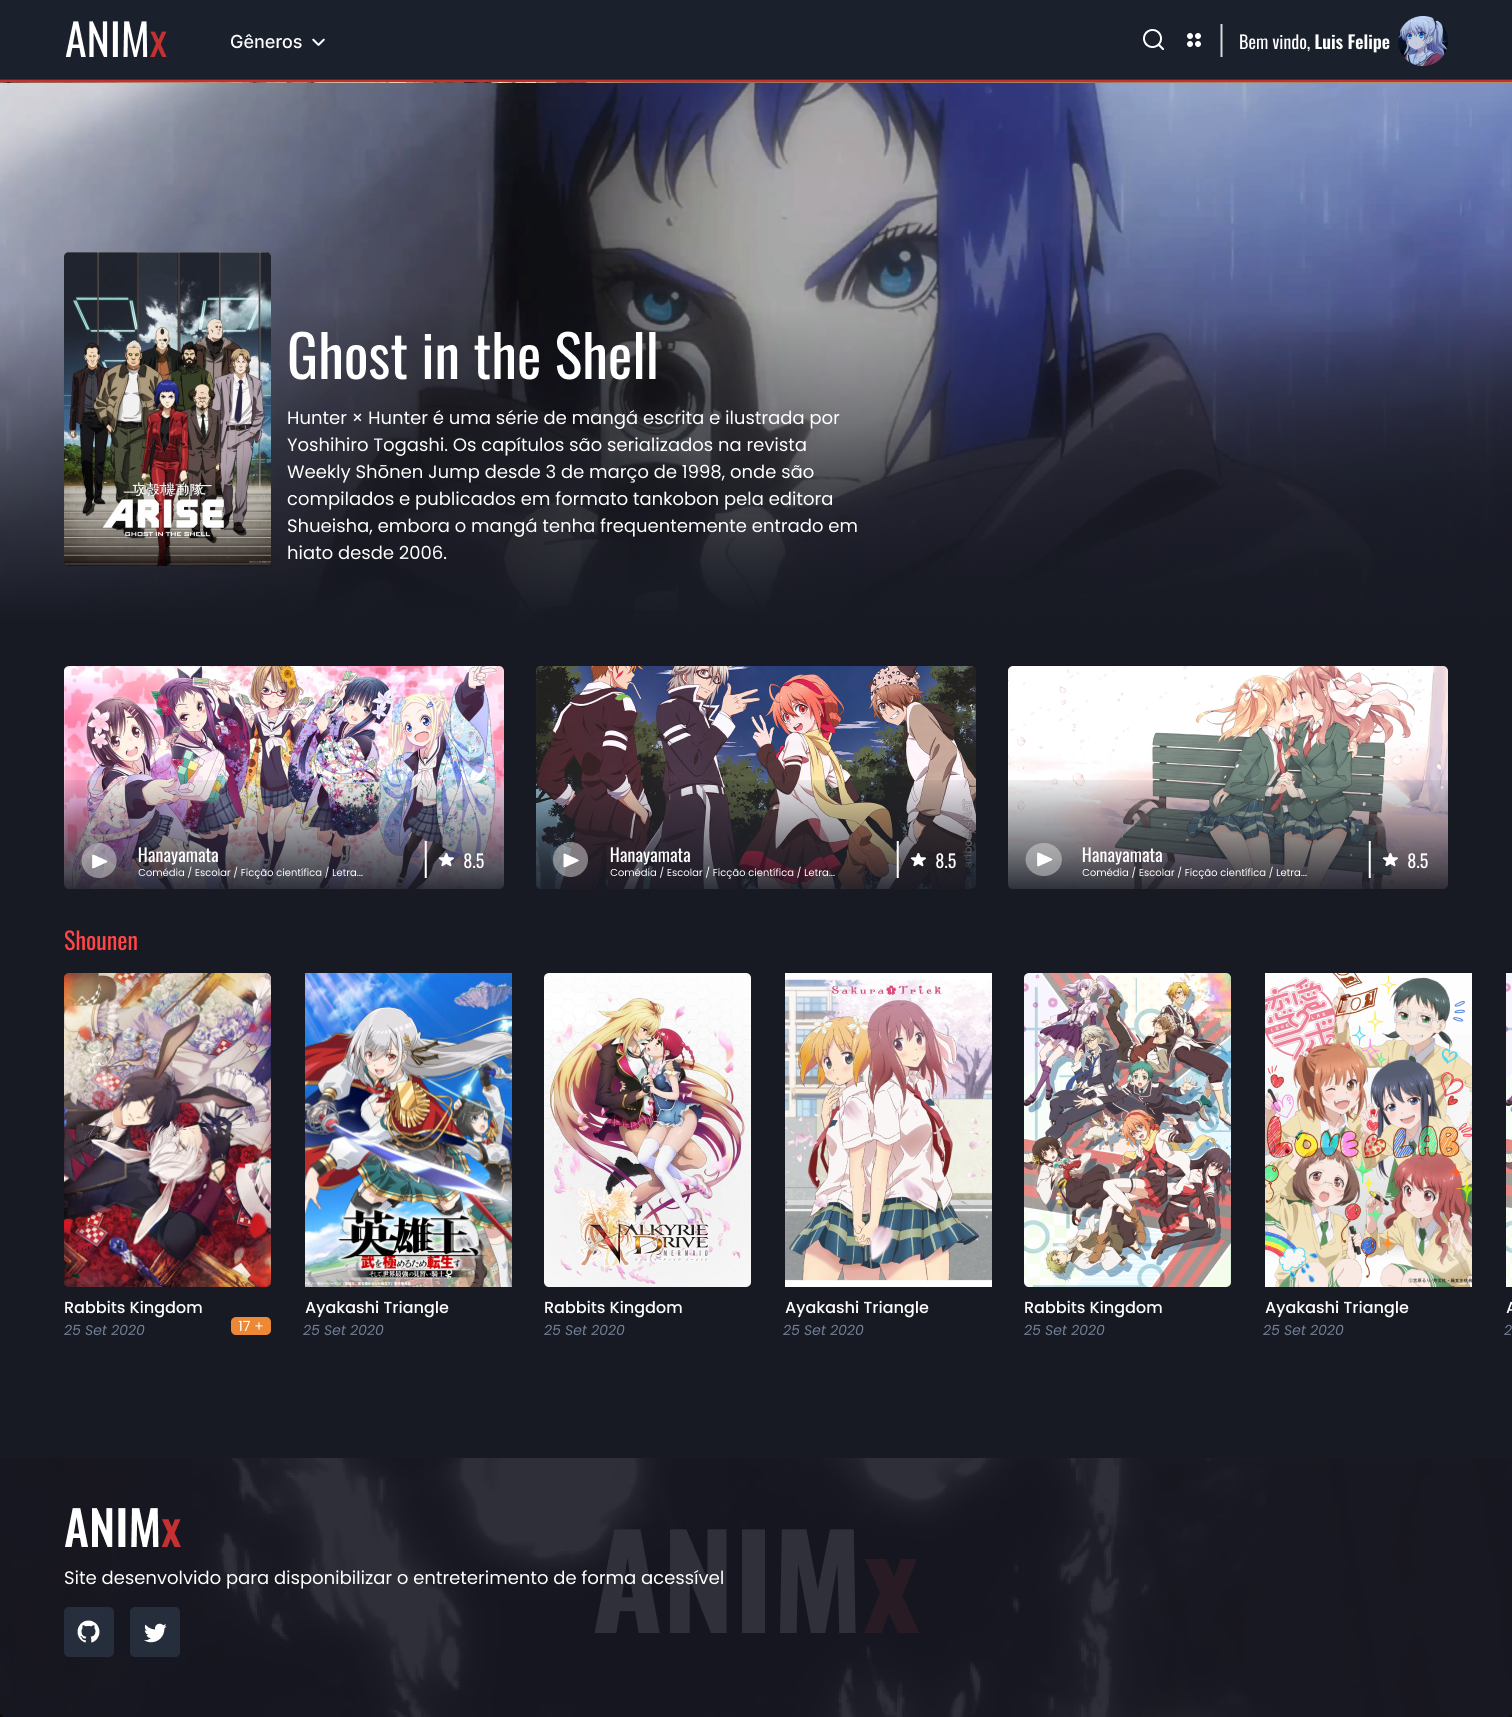
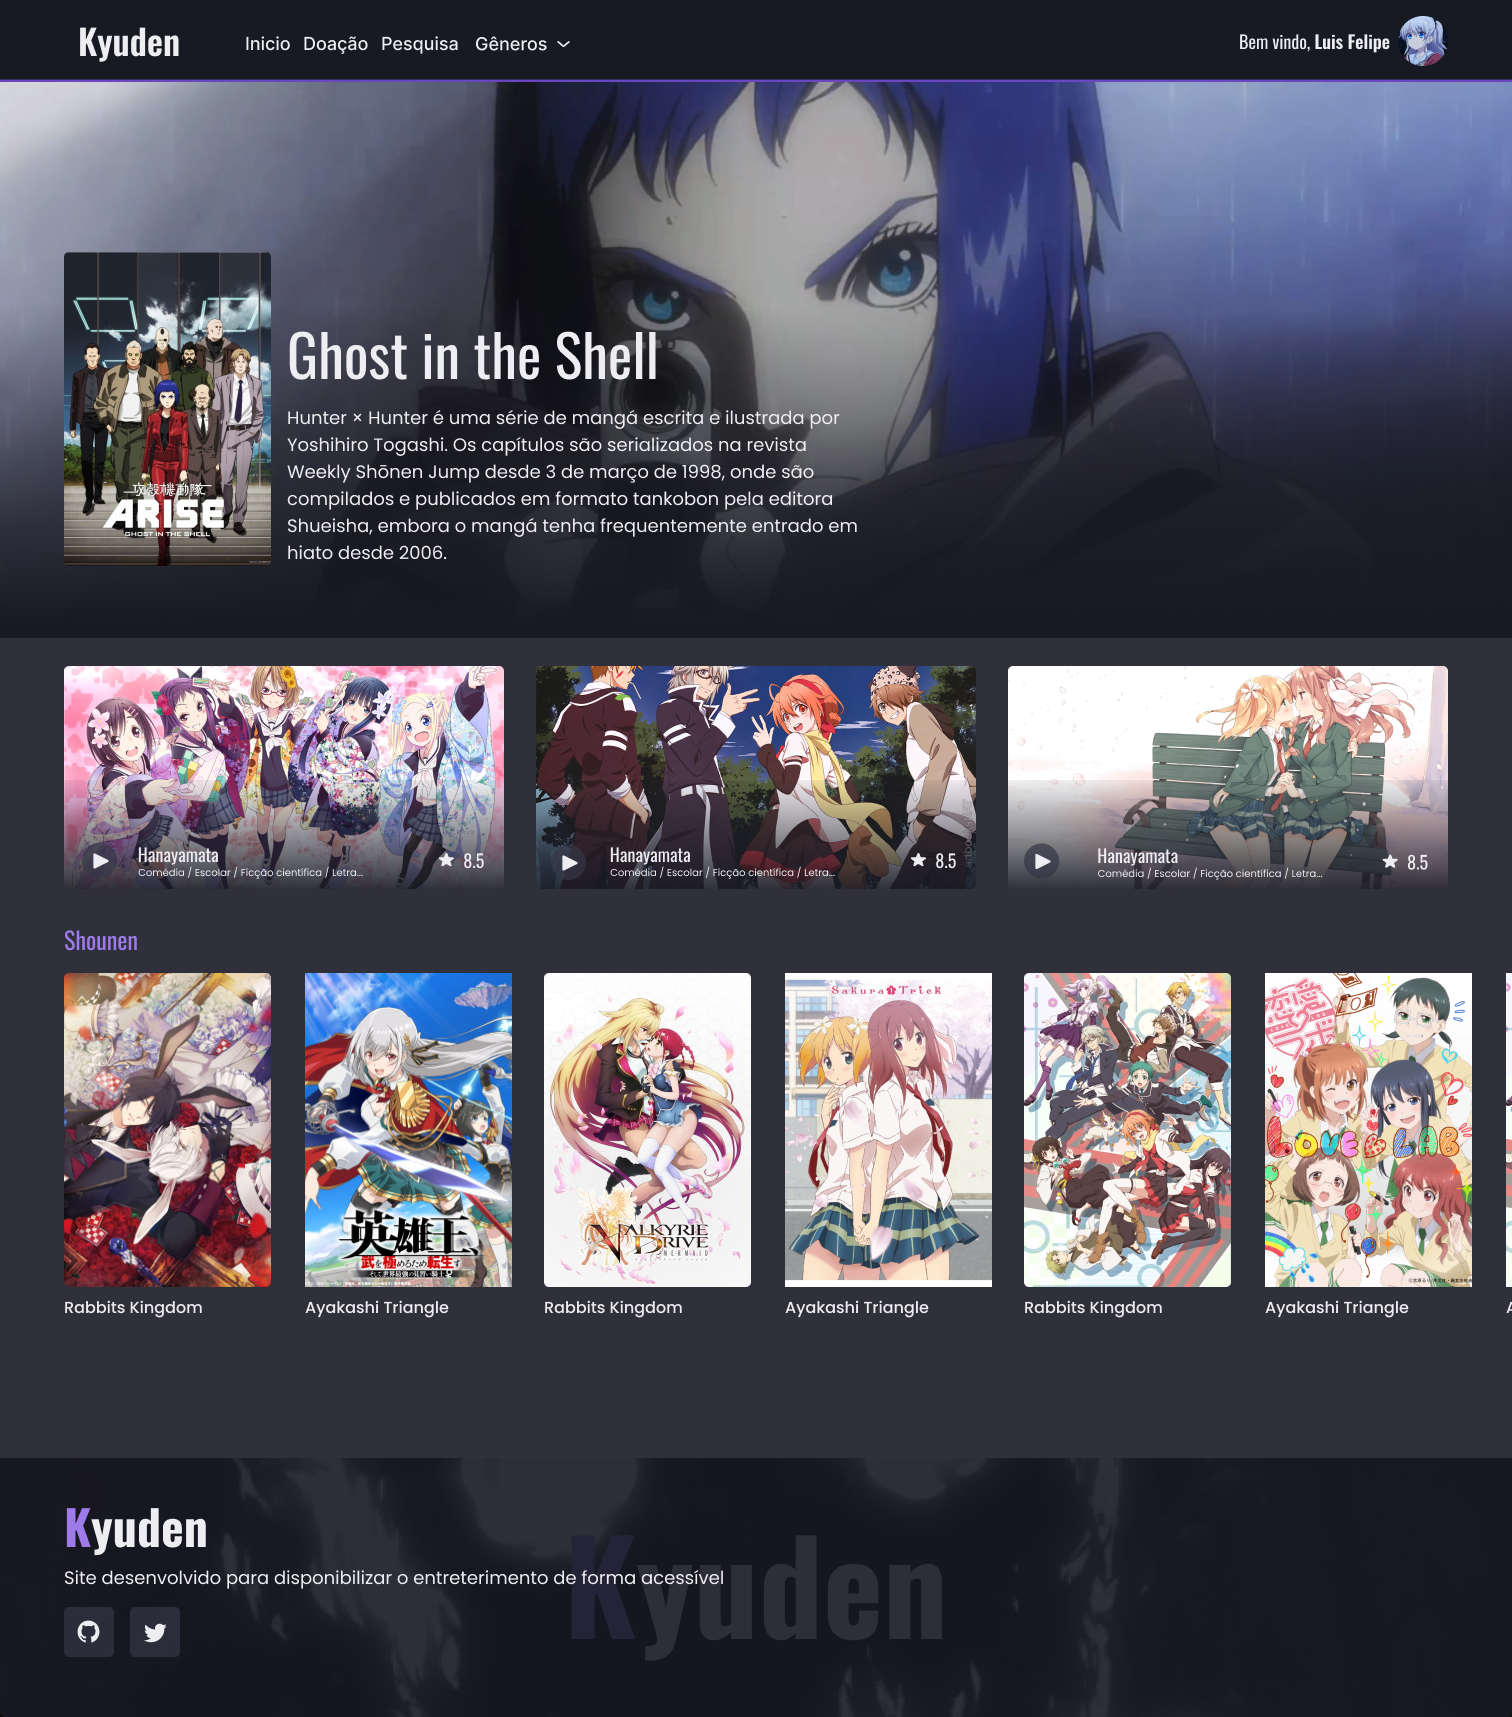
:triangular_flag_on_post: add new components

diff --git a/src/components/Hero/index.tsx b/src/components/Hero/index.tsx
@@ -3,6 +3,8 @@ import Image from "next/image"
 import Link from "next/link"
 import { FaPlay, FaPlus } from "react-icons/fa"
 import { IAnimes } from "../../@types/Anime"
+import { Button } from "../Button/Index"
+import { ButtonIcon } from "../ButtonIcon"
 import { Skeleton } from "../Skeleton"
 
 import style from './style.module.scss'
@@ -48,19 +50,21 @@ export function Hero({ anime }: IHeroProps) {
                         <h1>{anime.title}</h1>
                         <p>{anime.description}</p>
                         <div className={style.containerBtns}>
-                            <button
+                            <ButtonIcon
                                 title={`Adicionar ${anime.title} na minha lista`}
                                 aria-label={`Adicionar ${anime.title} na minha lista`}
                                 className={style.btnAddList}
                             >
                                 <FaPlus />
-                            </button>
-                            <Link href={`/anime/${anime.slug}`}>
-                                <a>
-                                    <FaPlay />
-                                    Assistir
-                                </a>
-                            </Link>
+                            </ButtonIcon>
+                            <Button asChild>
+                                <Link href={`/anime/${anime.slug}`}>
+                                    <a>
+                                        <FaPlay />
+                                        Assistir
+                                    </a>
+                                </Link>
+                            </Button>
                         </div>
                        
                     </div>

diff --git a/src/pages/episodio/[id].tsx b/src/pages/episodio/[id].tsx
@@ -45,7 +45,7 @@ export default function Episodio({ episode, remainingEpisodes, anime }: IEpisode
                         </div>
 
                         <div>
-                           
+                           <div></div>
                         </div>
 
                     </section>
@@ -60,8 +60,8 @@ export default function Episodio({ episode, remainingEpisodes, anime }: IEpisode
                                                 src={remainingEpisode.image}
                                                 width={350}
                                                 height={175}
-                                                alt={`Imagem do episódo ${remainingEpisode.title}`}
-                                                title={`Imagem do episódo ${remainingEpisode.title}`}
+                                                alt={`Imagem do episódio ${remainingEpisode.title}`}
+                                                title={`Imagem do episódio ${remainingEpisode.title}`}
                                             />
 
                                             <strong>{remainingEpisode.title}</strong>

diff --git a/src/components/PopularAnimes/CardPopularAnime/index.tsx b/src/components/PopularAnimes/CardPopularAnime/index.tsx
@@ -2,6 +2,7 @@ import { IAnimes } from "../../../@types/Anime";
 import { FaPlay, FaStar } from "react-icons/fa";
 import style from "./style.module.scss";
 import Link from "next/link";
+import { ButtonIcon } from "../../ButtonIcon";
 
 interface ICardAnimesProps {
   anime: IAnimes;
@@ -19,12 +20,12 @@ export function CardPopularAnime({ anime }: ICardAnimesProps) {
         >
           [
           <div className={style.infos}>
-            <button
+            <ButtonIcon
               title={`Assistir ${anime.title}`}
               aria-label={`Assistir ${anime.title}`}
             >
               <FaPlay />
-            </button>
+            </ButtonIcon>
             <div className={style.infos__content}>
               <h3>{anime.title}</h3>
               <ul className={style.infos__content_genres}>

diff --git a/src/components/Button/Index.tsx b/src/components/Button/Index.tsx
@@ -6,13 +6,13 @@ interface IButtonIconProps extends ButtonHTMLAttributes<HTMLButtonElement> {
     asChild?: boolean
 }
 
-export function ButtonIcon(props: IButtonIconProps) {
+export function Button(props: IButtonIconProps) {
     const Component = props.asChild ? Slot : 'button'
 
     return (    
         <Component
             {...props}
-            className={`${style.btnIcons} ${props.className}` }
+            className={`${style.btn} ` }
         />
     )
 }

diff --git a/src/components/PopularAnimes/CardPopularAnime/style.module.scss b/src/components/PopularAnimes/CardPopularAnime/style.module.scss
@@ -21,10 +21,7 @@
         gap: 1rem;
 
         button {
-            background-color: var(--gray-700-alpha);
-            color: var(--gray-50);
             padding: .9rem;
-            line-height: 0;
             border-radius: 100%;
             border: 0;
             transition: .2s;

diff --git a/src/components/Button/style.module.scss b/src/components/Button/style.module.scss
@@ -1,0 +1,9 @@
+.btn {
+    border-radius: 3rem;
+    border: none;
+    transition: .2s filter;
+    
+    &:hover {
+        filter: brightness(.85);
+    }
+}

diff --git a/src/components/ButtonIcon/style.module.scss b/src/components/ButtonIcon/style.module.scss
@@ -1,4 +1,6 @@
 .btnIcons {
     line-height: 0;
-    border: none;
+    border: 0;
+    background-color: var(--gray-700-alpha);
+    color: var(--gray-50);
 }
